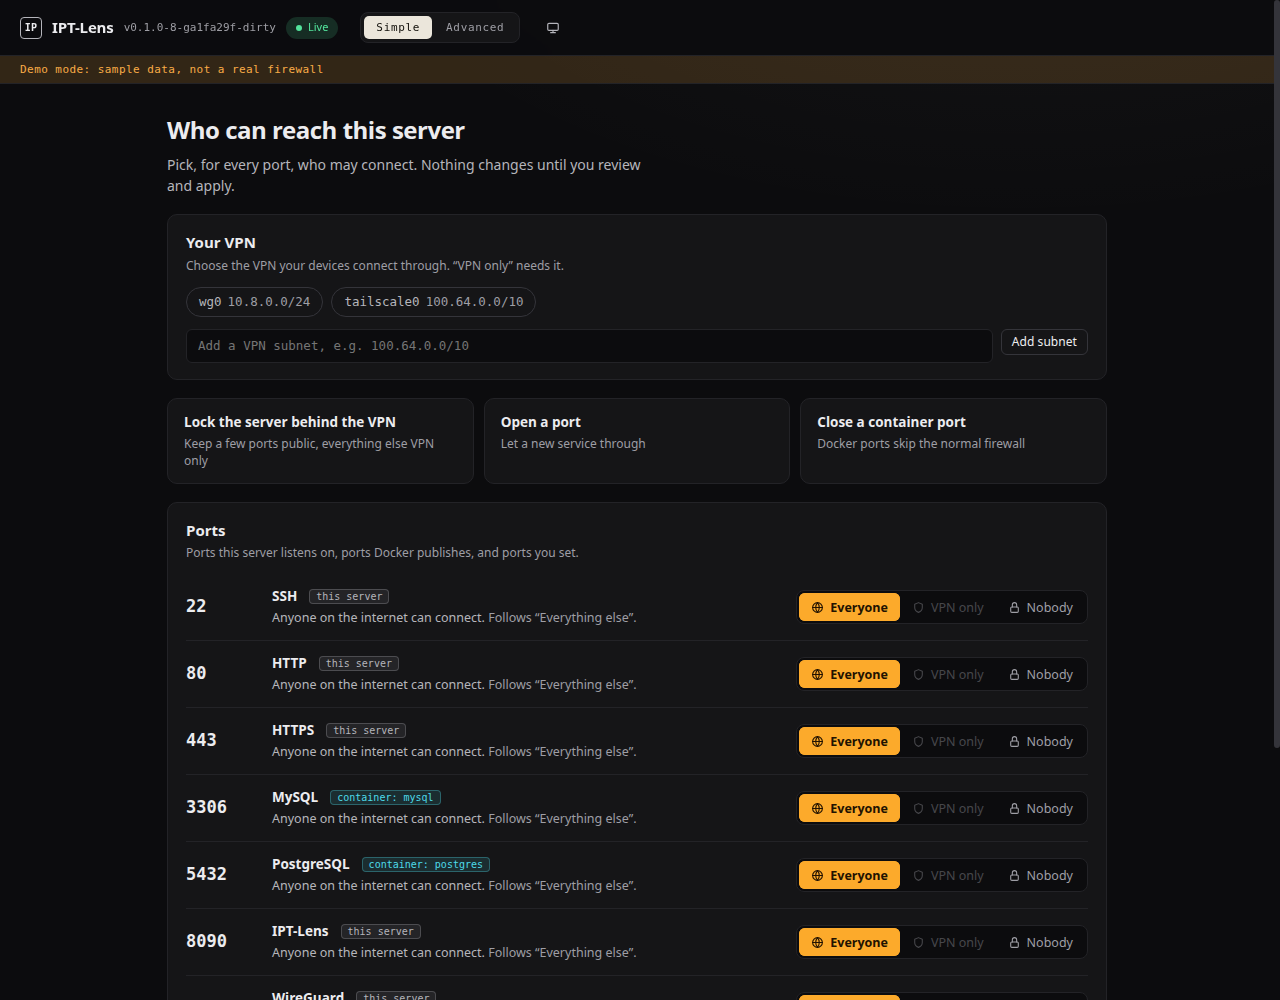
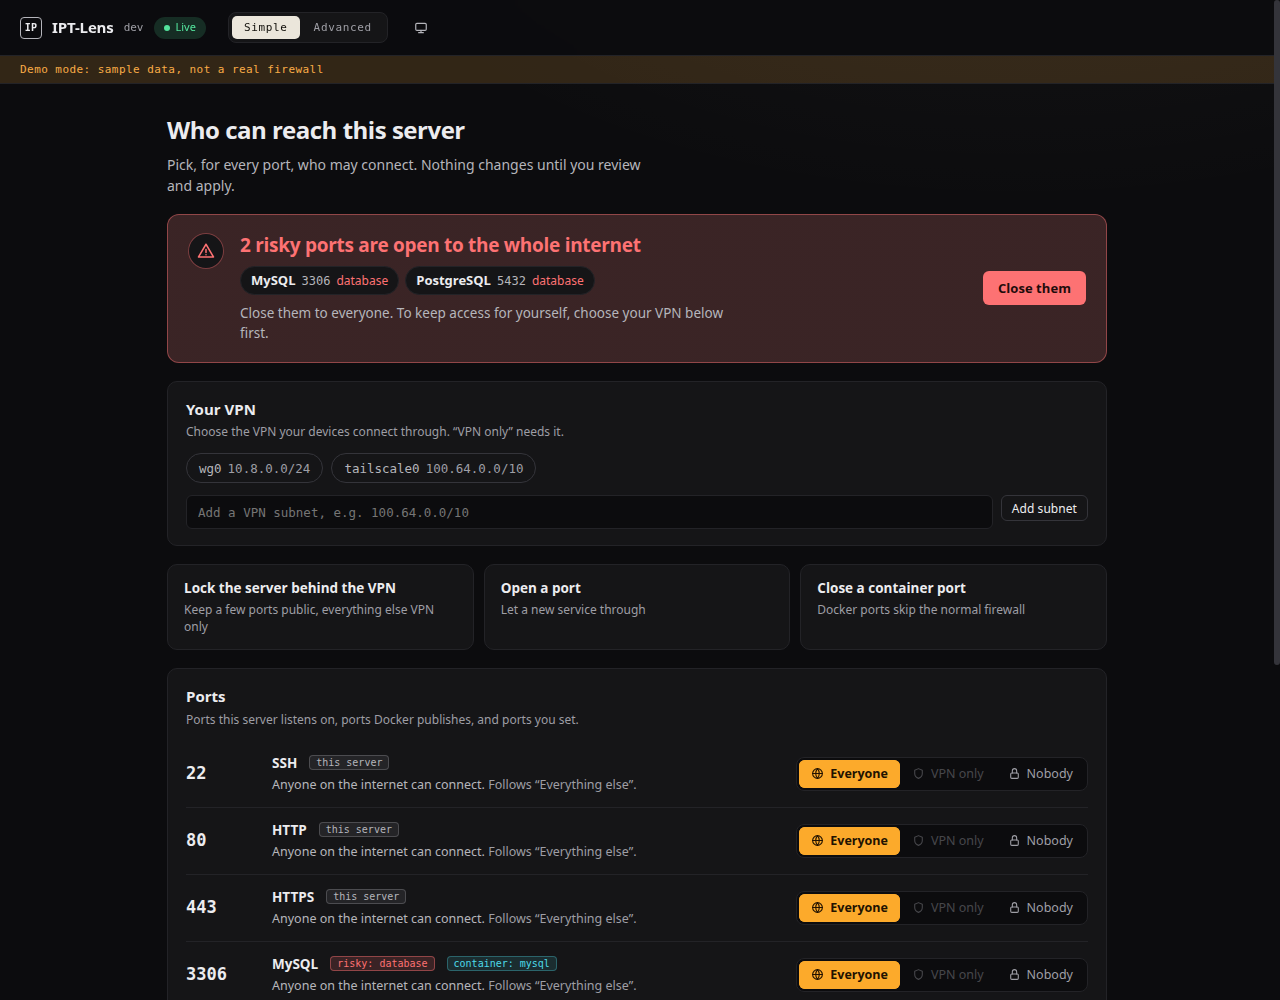
feat(simple): open with how exposed the server is, and one fix
Someone who does not know iptables should not have to read a port list
to learn whether the server is safe. The simple view now starts with a
one-sentence verdict for the policy as edited:

- risky ports open to everyone (databases, Docker API, kubelet/etcd,
  Prometheus, Telnet/FTP, SMB/NFS, remote desktop) are named with the
  reason, and one button makes them VPN only, or closes them when no
  VPN is chosen
- otherwise, if "Everything else" is Everyone, it says new services
  will be public and offers "Lock the server behind the VPN"
- otherwise it lists what is open to everyone

The risk list lives in internal/ports and rows carry it as "risk".
Nothing is applied from the card: it edits the draft, which still goes
through review and confirm.

diff --git a/web/dist/simple.js b/web/dist/simple.js
@@ -22,6 +22,11 @@
     vpn: icon('<path d="M12 3 5 6v6c0 4.5 3 7.5 7 9 4-1.5 7-4.5 7-9V6Z"/>'),
     closed: icon('<rect x="5" y="11" width="14" height="10" rx="2"/><path d="M8 11V7a4 4 0 0 1 8 0v4"/>'),
   };
+  const VERDICT_ICON = {
+    bad: icon('<path d="M12 3 2 20h20Z"/><path d="M12 10v4M12 17h.01"/>'),
+    warn: LEVEL_ICON.public,
+    ok: icon('<path d="M12 3 5 6v6c0 4.5 3 7.5 7 9 4-1.5 7-4.5 7-9V6Z"/><path d="m9 12 2 2 4-4"/>'),
+  };
   const PUBLIC_BY_DEFAULT = new Set(["22/tcp", "80/tcp", "443/tcp", "51820/udp", "41641/udp", "1194/udp"]);
 
   let view = null; // last GET /api/v1/access
@@ -132,9 +137,12 @@
     return group;
   }
 
-  function describe(r) {
-    const title = r.name || (r.containers.length ? r.containers[0] : r.host ? "Unknown service" : "Custom port");
+  const titleOf = (r) => r.name || (r.containers.length ? r.containers[0] : r.host ? "Unknown service" : "Custom port");
+
+  function describe(r, exposed = false) {
+    const title = titleOf(r);
     const tags = [];
+    if (exposed && r.risk) tags.push(`<span class="badge badge-risk">risky: ${L.esc(r.risk)}</span>`);
     if (r.host) tags.push(`<span class="badge badge-iface">this server</span>`);
     r.containers.forEach((c) => tags.push(`<span class="badge badge-docker">container: ${L.esc(c)}</span>`));
     if (r.locked) tags.push(`<span class="badge badge-vpn">IPT-Lens</span>`);
@@ -191,7 +199,7 @@
       const port = L.el("div", "s-port mono", String(r.port));
       if (r.proto !== "tcp") port.append(L.el("span", "s-proto", "/" + r.proto));
       const what = L.el("div", "s-what");
-      what.innerHTML = describe(r);
+      what.innerHTML = describe(r, cur.level === "public");
       const sentence = L.el("div", "s-sentence", SENTENCE[cur.level]);
       if (!cur.explicit) sentence.append(L.el("span", "tert", " Follows “Everything else”."));
       what.append(sentence);
@@ -216,8 +224,77 @@
     }));
   }
 
+  // The answer to "is this server safe?" in one sentence, for the draft as it
+  // stands, with one button that fixes the worst problem.
+  function renderVerdict() {
+    const box = $("s-verdict");
+    const open = allRows().filter((r) => levelIn(draft, r.port, r.proto).level === "public");
+    const risky = open.filter((r) => r.risk);
+    const portList = (rows, withRisk) => {
+      const ul = L.el("ul", "s-v-ports");
+      rows.forEach((r) => {
+        const li = L.el("li");
+        li.innerHTML = `<b>${L.esc(titleOf(r))}</b> <span class="mono">${r.port}${r.proto !== "tcp" ? "/" + r.proto : ""}</span>`
+          + (withRisk ? ` <span class="s-v-why">${L.esc(r.risk)}</span>` : "");
+        ul.append(li);
+      });
+      return ul;
+    };
+    let tone, title, body = [], action = null;
+    if (risky.length) {
+      tone = "bad";
+      const n = risky.length;
+      title = n === 1 ? "1 risky port is open to the whole internet" : `${n} risky ports are open to the whole internet`;
+      body.push(portList(risky, true));
+      const to = hasVPN(draft) ? "vpn" : "closed";
+      body.push(L.el("p", "s-v-text", to === "vpn"
+        ? `Make ${n === 1 ? "it" : "them"} VPN only: you keep access through ${vpnText(draft)}, nobody else gets in.`
+        : `Close ${n === 1 ? "it" : "them"} to everyone. To keep access for yourself, choose your VPN below first.`));
+      action = {
+        label: to === "vpn" ? `Make ${n === 1 ? "it" : "them"} VPN only` : `Close ${n === 1 ? "it" : "them"}`,
+        cls: "btn-danger",
+        run: () => {
+          risky.forEach((r) => setLevel(r.port, r.proto, to));
+          render();
+          L.toast("Changed here, not on the server yet. Review and apply to make it real.", "info");
+        },
+      };
+    } else if (draft.default === "public") {
+      tone = "warn";
+      title = "Every new service will be open to the whole internet";
+      if (open.length) {
+        body.push(L.el("p", "s-v-text", "Open to everyone right now:"), portList(open, false));
+      }
+      body.push(L.el("p", "s-v-text", "“Everything else” is set to Everyone, so any port that starts listening later is public too."));
+      action = { label: "Lock the server behind the VPN", cls: "btn-primary", run: taskLock };
+    } else {
+      tone = "ok";
+      title = open.length ? "Only these are open to everyone" : "Nothing is open to everyone";
+      if (open.length) body.push(portList(open, false));
+      body.push(L.el("p", "s-v-text", draft.default === "vpn"
+        ? "Every other port is VPN only."
+        : "Every other port is closed."));
+    }
+    box.dataset.tone = tone;
+    box.innerHTML = "";
+    const mark = L.el("div", "s-v-icon");
+    mark.innerHTML = VERDICT_ICON[tone];
+    const main = L.el("div", "s-v-main");
+    main.append(L.el("h2", "s-v-title", title), ...body);
+    if (changeCount() > 0) main.append(L.el("p", "s-v-draft", "Includes changes you have not applied yet."));
+    box.append(mark, main);
+    if (action) {
+      const b = L.el("button", `btn ${action.cls} s-v-action`, action.label);
+      b.type = "button";
+      b.addEventListener("click", action.run);
+      box.append(b);
+    }
+    box.hidden = false;
+  }
+
   function render() {
     if (!view) return;
+    renderVerdict();
     renderVPN();
     renderRows();
     $("s-notes").textContent = (view.notes || []).join(" ");

diff --git a/web/dist/style.css b/web/dist/style.css
@@ -434,6 +434,40 @@ tbody td:nth-child(2) { white-space: nowrap; }
 .s-head h1 { margin: 0; font-size: 24px; font-weight: 600; letter-spacing: -.02em; text-wrap: balance; }
 .s-head p { margin: 6px 0 0; color: var(--t2); font-size: 14px; max-width: 62ch; }
 
+/* The verdict: one sentence on how exposed the server is, colored by how bad. */
+.s-verdict {
+  --tone: var(--ok); --tone-bg: var(--ok-bg); --tone-line: var(--ok-line);
+  display: grid; grid-template-columns: auto minmax(0, 1fr) auto; align-items: start; gap: 4px 16px;
+  padding: 18px 20px; border-radius: 12px; border: 1px solid var(--tone-line);
+  background: linear-gradient(var(--tone-bg), var(--tone-bg)), var(--surface);
+}
+.s-verdict[data-tone="warn"] { --tone: var(--warn); --tone-bg: var(--warn-bg); --tone-line: var(--warn-line); }
+.s-verdict[data-tone="bad"] { --tone: var(--bad); --tone-bg: var(--bad-bg); --tone-line: var(--bad-line); }
+.s-v-icon {
+  width: 36px; height: 36px; border-radius: 50%; display: grid; place-items: center;
+  color: var(--tone); background: var(--surface); box-shadow: inset 0 0 0 1px var(--tone-line);
+}
+.s-v-icon svg { width: 18px; height: 18px; }
+.s-v-main { display: flex; flex-direction: column; gap: 8px; min-width: 0; }
+.s-v-title { margin: 0; font-size: 19px; line-height: 1.3; font-weight: 600; letter-spacing: -.015em; color: var(--t1); text-wrap: balance; }
+.s-verdict[data-tone="bad"] .s-v-title, .s-verdict[data-tone="warn"] .s-v-title { color: var(--tone); }
+.s-v-ports { list-style: none; margin: 0; padding: 0; display: flex; flex-wrap: wrap; gap: 6px; }
+.s-v-ports li {
+  display: inline-flex; align-items: baseline; gap: 6px; padding: 4px 10px; border-radius: 999px;
+  background: var(--surface); border: 1px solid var(--line); font-size: 13px;
+}
+.s-v-ports b { font-weight: 600; }
+.s-v-ports .mono { color: var(--t2); font-size: 12px; }
+.s-v-why { color: var(--tone); font-size: 12px; }
+.s-v-text { margin: 0; font-size: 13.5px; color: var(--t2); max-width: 64ch; }
+.s-v-draft { margin: 0; font-size: 12px; color: var(--edit); }
+.s-v-action { align-self: center; white-space: nowrap; }
+.badge-risk { color: var(--bad); background: var(--bad-bg); border-color: var(--bad-line); }
+@media (max-width: 640px) {
+  .s-verdict { grid-template-columns: auto minmax(0, 1fr); padding: 16px; }
+  .s-v-action { grid-column: 1 / -1; justify-self: stretch; margin-top: 8px; }
+}
+
 .s-card { background: var(--surface); border: 1px solid var(--line); border-radius: 10px; padding: 16px 18px; display: flex; flex-direction: column; gap: 12px; }
 .s-card-h h2 { margin: 0; font-size: 15px; font-weight: 600; }
 .s-card-h .hint { margin-top: 3px; }

diff --git a/web/dist/index.html b/web/dist/index.html
@@ -41,6 +41,8 @@
       <p>Pick, for every port, who may connect. Nothing changes until you review and apply.</p>
     </header>
 
+    <section id="s-verdict" class="s-verdict" aria-label="How exposed this server is" hidden></section>
+
     <section class="s-card" aria-labelledby="s-vpn-title">
       <div class="s-card-h">
         <h2 id="s-vpn-title">Your VPN</h2>

diff --git a/internal/ports/ports.go b/internal/ports/ports.go
@@ -102,7 +102,27 @@ var names = map[Port]string{
 	{8090, "tcp"}: "IPT-Lens", {9090, "tcp"}: "Prometheus", {9100, "tcp"}: "Node exporter", {9200, "tcp"}: "Elasticsearch",
 	{10250, "tcp"}: "Kubelet", {11211, "tcp"}: "Memcached", {27017, "tcp"}: "MongoDB", {41641, "udp"}: "Tailscale",
 	{51820, "udp"}: "WireGuard",
+	{23, "tcp"}:    "Telnet", {445, "tcp"}: "Windows file sharing (SMB)", {1433, "tcp"}: "SQL Server",
+	{2379, "tcp"}: "etcd", {3389, "tcp"}: "Remote Desktop", {5900, "tcp"}: "VNC", {5984, "tcp"}: "CouchDB",
+	{9042, "tcp"}: "Cassandra", {15672, "tcp"}: "RabbitMQ admin",
 }
+
+// risks holds ports that should almost never be open to the whole internet,
+// each with the reason in a few plain words.
+var risks = map[Port]string{
+	{3306, "tcp"}: "database", {5432, "tcp"}: "database", {6379, "tcp"}: "database", {27017, "tcp"}: "database",
+	{11211, "tcp"}: "database", {9200, "tcp"}: "database", {1433, "tcp"}: "database", {5984, "tcp"}: "database",
+	{9042, "tcp"}: "database", {5672, "tcp"}: "message queue", {15672, "tcp"}: "admin panel",
+	{2375, "tcp"}: "controls Docker as root", {2376, "tcp"}: "controls Docker as root",
+	{10250, "tcp"}: "controls the cluster", {2379, "tcp"}: "controls the cluster",
+	{9090, "tcp"}: "shows server internals", {9100, "tcp"}: "shows server internals",
+	{21, "tcp"}: "sends passwords unencrypted", {23, "tcp"}: "sends passwords unencrypted",
+	{445, "tcp"}: "file sharing", {2049, "tcp"}: "file sharing",
+	{3389, "tcp"}: "remote desktop", {5900, "tcp"}: "remote desktop",
+}
+
+// Risk returns why p should not be open to everyone, or "" if it may be.
+func Risk(p Port) string { return risks[p] }
 
 // Name returns a well-known service name for p, or "".
 func Name(p Port) string { return names[p] }

diff --git a/internal/api/access.go b/internal/api/access.go
@@ -17,11 +17,12 @@ type accessRow struct {
 	Port       int            `json:"port"`
 	Proto      string         `json:"proto"`
 	Name       string         `json:"name"`
-	Host       bool           `json:"host"`       // a host process listens on it
-	Containers []string       `json:"containers"` // containers publishing it
-	Level      iptables.Level `json:"level"`      // effective level
-	Explicit   bool           `json:"explicit"`   // set for this port, not inherited from "everything else"
-	Locked     bool           `json:"locked"`     // IPT-Lens' own port: never below "VPN only"
+	Host       bool           `json:"host"`           // a host process listens on it
+	Containers []string       `json:"containers"`     // containers publishing it
+	Level      iptables.Level `json:"level"`          // effective level
+	Explicit   bool           `json:"explicit"`       // set for this port, not inherited from "everything else"
+	Locked     bool           `json:"locked"`         // IPT-Lens' own port: never below "VPN only"
+	Risk       string         `json:"risk,omitempty"` // why it should not be open to everyone
 }
 
 type accessView struct {
@@ -113,7 +114,8 @@ func (s *Server) buildView(st *iptables.SystemState, d discovery) accessView {
 		if r, ok := rows[k]; ok {
 			return r
 		}
-		r := &accessRow{Port: port, Proto: proto, Name: ports.Name(ports.Port{Number: port, Proto: proto}), Containers: []string{}}
+		r := &accessRow{Port: port, Proto: proto, Name: ports.Name(ports.Port{Number: port, Proto: proto}),
+			Risk: ports.Risk(ports.Port{Number: port, Proto: proto}), Containers: []string{}}
 		rows[k] = r
 		return r
 	}

diff --git a/internal/ports/ports_test.go b/internal/ports/ports_test.go
@@ -46,3 +46,28 @@ func TestName(t *testing.T) {
 		}
 	}
 }
+
+func TestRisk(t *testing.T) {
+	for _, c := range []struct {
+		p    Port
+		want string
+	}{
+		{Port{3306, "tcp"}, "database"},
+		{Port{6379, "tcp"}, "database"},
+		{Port{2375, "tcp"}, "controls Docker as root"},
+		{Port{23, "tcp"}, "sends passwords unencrypted"},
+		{Port{3389, "tcp"}, "remote desktop"},
+		{Port{22, "tcp"}, ""},
+		{Port{443, "tcp"}, ""},
+		{Port{3306, "udp"}, ""},
+	} {
+		if got := Risk(c.p); got != c.want {
+			t.Errorf("Risk(%v) = %q, want %q", c.p, got, c.want)
+		}
+	}
+	for p := range risks {
+		if Name(p) == "" {
+			t.Errorf("risky port %v has no name", p)
+		}
+	}
+}

diff --git a/internal/api/access_test.go b/internal/api/access_test.go
@@ -35,8 +35,11 @@ func TestAccessViewDemo(t *testing.T) {
 	if r := row(22); r.Name != "SSH" || !r.Host || r.Level != iptables.LevelPublic {
 		t.Fatalf("row 22 = %+v", r)
 	}
-	if r := row(5432); !reflect.DeepEqual(r.Containers, []string{"postgres"}) {
+	if r := row(5432); !reflect.DeepEqual(r.Containers, []string{"postgres"}) || r.Risk != "database" {
 		t.Fatalf("row 5432 = %+v", r)
+	}
+	if r := row(22); r.Risk != "" {
+		t.Fatalf("SSH flagged as risky: %+v", r)
 	}
 	if len(v.VPNCandidates) == 0 || v.VPNCandidates[0].Name != "wg0" {
 		t.Fatalf("vpn candidates = %+v", v.VPNCandidates)

diff --git a/CHANGELOG.md b/CHANGELOG.md
@@ -6,6 +6,14 @@ and the project uses [Semantic Versioning](https://semver.org/).
 
 ## [Unreleased]
 
+### Added
+
+- The simple view opens with one answer: how exposed this server is. Ports
+  that should almost never be public (databases, the Docker API, kubelet and
+  etcd, Prometheus, Telnet/FTP, SMB/NFS, remote desktop) are called out as
+  risky, with one button that makes them VPN only (or closes them when no VPN
+  is chosen). The change goes through the usual review and confirm steps.
+
 ### Changed
 
 - Safer rollback. Every undo command is checked against the live ruleset
